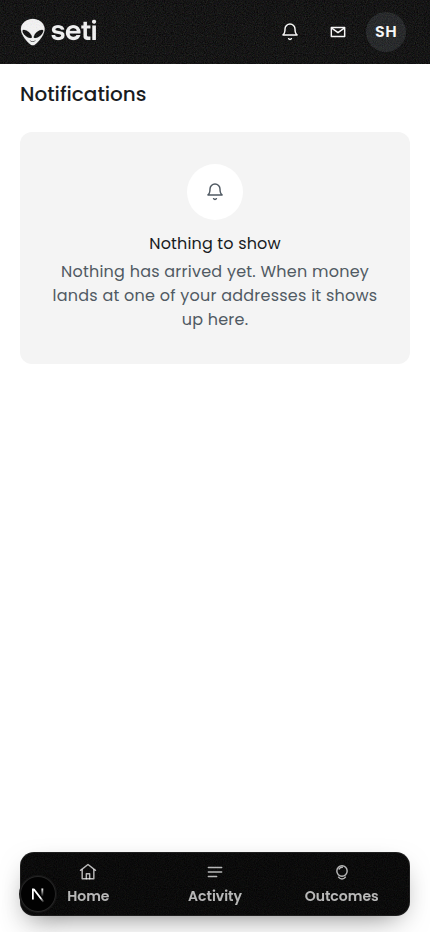
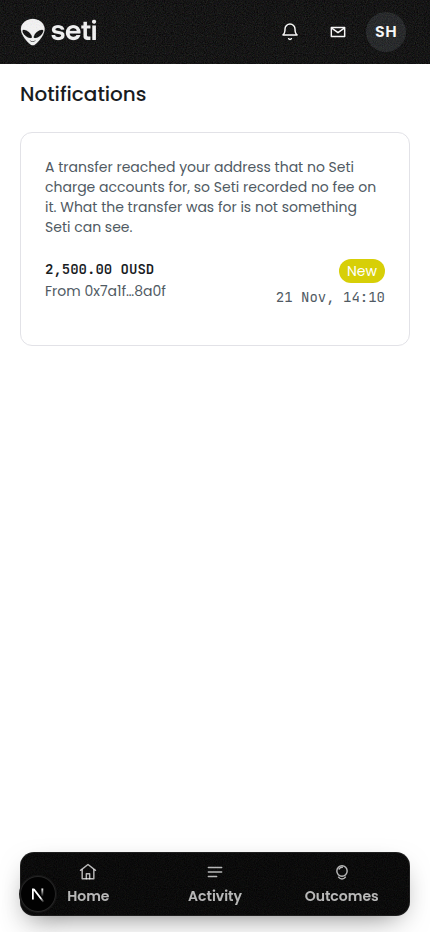
fix(notifications): read the row the server actually sends
The client type described a view the server does not send. `ArrivalView` on the wire is
txHash, recipient, from, asset, amount, blockNumber, seenAt — no `id`, no `createdAt`, no
`matched`. Against a real arrival the list would have keyed on undefined, printed "Invalid
Date", and labelled every row with a `matched` flag that does not exist.

It went unnoticed because the dev account has no arrivals, so every capture was the empty
state, which renders from the empty branch and touches no row fields.

- the four state branches are unchanged; the row now reads the fields that arrive
- the sender replaces the invented `matched` flag, because an arrival's only handle on "what
  was this for" is who sent it
- amounts are formatted rather than printed raw: `2500.000000` reads as `2,500.00`, and real
  dust keeps its digits
- the server's own sentence about what an arrival is heads the list, instead of a sixth
  phrasing invented on the client
- a browser with no seen instant has seen nothing, so its rows are New rather than old

Changed region(s): [[0.0907, 0.1556, 0.907, 0.3734]]

diff --git a/web/components/notifications/ArrivalRow.tsx b/web/components/notifications/ArrivalRow.tsx
@@ -3,38 +3,72 @@ import type { ArrivalView } from '@/lib/api/arrivals';
 import { NOTIFICATIONS_COPY } from './Notifications.constants';
 
 /**
- * One arrival: an amount in the asset it arrived in, the address that received it, and the
- * instant (#592).
+ * A token amount, as the chain moved it, made readable without rounding the money away.
+ *
+ * The stored amount is six decimal places (`"2500.000000"`), and printing all of them reads
+ * as a machine talking. Two decimals always, and up to six only when the trailing digits are
+ * real: `0.000042 OUSD` keeps its dust, `2,500.00 OUSD` does not carry four zeros it earned
+ * from nowhere. The integer part is grouped, because that is what makes a figure scannable.
+ */
+export function formatAmount(amount: string): string {
+  const [whole, fraction = ''] = amount.split('.');
+  const trimmed = fraction.replace(/0+$/, '');
+  const decimals = trimmed.length > 2 ? trimmed : trimmed.padEnd(2, '0');
+  const grouped = whole.replace(/\B(?=(\d{3})+(?!\d))/g, ',');
+  return decimals.length > 0 ? `${grouped}.${decimals}` : grouped;
+}
+
+/** `0x1234…abcd`, which is how a person recognises an address without reading 42 characters. */
+export function shortAddress(address: string): string {
+  return address.length > 12 ? `${address.slice(0, 6)}…${address.slice(-4)}` : address;
+}
+
+/**
+ * One arrival: an amount in the asset it arrived in, who sent it, and when it was seen (#592).
  *
  * THE FIGURE IS NOT CONVERTED, AND THAT IS DELIBERATE. `ArrivalView` carries no fiat: the
- * server's view is the token amount. Rendering KES here would mean the browser inventing a
- * rate, which is the one thing the money surfaces in this app never do. The asset is printed
- * beside the number so the figure is unambiguous — `12.50 OUSD` claims nothing it cannot back.
+ * server's view is the token amount and the block it moved in. Rendering KES here would mean
+ * the browser inventing a rate, which is the one thing the money surfaces in this app never do.
+ * The asset is printed beside the number so the figure is unambiguous — `12.50 OUSD` claims
+ * nothing it cannot back.
+ *
+ * THE SENDER IS THE POINT OF THE ROW. An arrival is money with no charge behind it, so the
+ * only handle a customer has on "what was this for" is who sent it. It is shortened, because a
+ * full address is a wall of characters on a phone, and the full one is one tap away on the
+ * chain through `txHash`.
  */
 export function ArrivalRow({ arrival, isNew }: { arrival: ArrivalView; isNew: boolean }) {
-  const when = new Date(arrival.createdAt);
+  const when = new Date(arrival.seenAt);
 
   return (
     <li className="flex items-start justify-between gap-3 py-3.5">
       <div className="min-w-0">
         <Text variant="tab" as="p" tabular>
-          {arrival.amount} <span className="text-ink-muted">{arrival.asset}</span>
+          {formatAmount(arrival.amount)} <span className="text-ink-muted">{arrival.asset.toUpperCase()}</span>
         </Text>
         <Text variant="micro" as="p" color="secondary" className="mt-0.5 truncate">
-          {arrival.matched ? NOTIFICATIONS_COPY.matched : NOTIFICATIONS_COPY.unmatched}
-          {' · '}
-          {arrival.recipient}
+          {NOTIFICATIONS_COPY.fromSender(shortAddress(arrival.from))}
         </Text>
       </div>
 
       <div className="flex shrink-0 flex-col items-end gap-1">
         {isNew ? (
-          <Text variant="micro" as="span" color="inverse" className="rounded-full bg-accent-lime px-2 py-0.5 text-canvas-dark">
+          <Text
+            variant="micro"
+            as="span"
+            color="inverse"
+            className="rounded-full bg-accent-lime px-2 py-0.5 text-canvas-dark"
+          >
             {NOTIFICATIONS_COPY.newMark}
           </Text>
         ) : null}
         <Text variant="micro" as="span" color="secondary" tabular>
-          {when.toLocaleString('en-KE', { day: 'numeric', month: 'short', hour: '2-digit', minute: '2-digit' })}
+          {when.toLocaleString('en-KE', {
+            day: 'numeric',
+            month: 'short',
+            hour: '2-digit',
+            minute: '2-digit',
+          })}
         </Text>
       </div>
     </li>

diff --git a/web/lib/api/arrivals.ts b/web/lib/api/arrivals.ts
@@ -5,31 +5,46 @@ import { get } from './client';
  *
  * The endpoint is `GET /arrivals` and it is behind the session: an arrival belongs to the
  * account whose address received it, and the addresses are resolved from the session rather
- * than from the query. The row shape here is the server's own view (`toArrivalView`), which is
- * what the notifications list prints, so a row cannot say one thing on the list and another in
- * the place it came from.
+ * than from the query. The row shape below is `ArrivalView` in
+ * `backend/src/services/arrival-store.ts`, field for field — and `check:page-header` compares
+ * the two, because a client type that drifts from the server's view renders `undefined` where
+ * a figure should be, which looks like a bug in the money rather than a bug in the types.
+ *
+ * There is no `status`, no `matched` and no `chargeId` on a row, and the absence is the
+ * feature: an arrival is a FACT about money plus an ABSENCE of attribution. A client cannot
+ * render a state this row does not have.
  */
 
 export interface ArrivalView {
-  id: string;
-  /** The amount in the asset it arrived in, as a decimal string. */
-  amount: string;
-  asset: string;
-  /** The address that received it, shortened server-side for display. */
+  /** The transaction, for a customer who wants the chain. */
+  txHash: string;
+  /** The address that received the money. */
   recipient: string;
-  /** The transaction hash, for a reader who wants the chain. */
-  txHash: string | null;
-  /** ISO instant the arrival was indexed. */
-  createdAt: string;
-  /** True when the money has been matched to a charge or a person. */
-  matched: boolean;
+  /** Who sent it, as the chain recorded. The one handle on asking them what it was for. */
+  from: string;
+  /** The Seti ledger label of the token that moved (`ousd`). */
+  asset: string;
+  /** Decimal token units, exactly as the chain moved them. */
+  amount: string;
+  /** The block, when the log carried one. Null means unknown, never zero. */
+  blockNumber: string | null;
+  /** When the indexer first recorded this pass. */
+  seenAt: string;
+}
+
+/** Totals per asset, as the server adds them up. `amount` is decimal token units. */
+export interface ArrivalSummary {
+  asset: string;
+  count: number;
+  amount: string;
 }
 
 export interface ArrivalsPage {
   arrivals: ArrivalView[];
   hasMore: boolean;
-  summary: { count: number; total: string; asset: string }[];
-  copy: { title: string; body: string };
+  summary: ArrivalSummary[];
+  /** The product's own words for what an arrival is, so a surface does not invent a fifth. */
+  copy: { label: string; headline: string; detail: string };
 }
 
 export function fetchArrivals(limit = 20): Promise<ArrivalsPage> {

diff --git a/web/components/notifications/NotificationsScreen.tsx b/web/components/notifications/NotificationsScreen.tsx
@@ -65,12 +65,19 @@ export function NotificationsScreen() {
 
       {state.kind === 'ready' ? (
         <Card padding="sm">
+          {/* The server's own sentence about what an arrival is, because a surface inventing
+              a fifth phrasing for the same fact is how two screens start disagreeing. */}
+          <Text variant="micro" as="p" color="secondary" className="pb-2">
+            {state.page.copy.detail}
+          </Text>
           <ul className="divide-y divide-hairline">
             {state.page.arrivals.map((arrival) => (
               <ArrivalRow
-                key={arrival.id}
+                key={arrival.txHash}
                 arrival={arrival}
-                isNew={seenAt !== null && arrival.createdAt > seenAt}
+                // A browser with no stored instant has seen nothing, so everything is new. That is
+                // the first visit, and telling someone their money is old would be wrong.
+                isNew={seenAt === null || arrival.seenAt > seenAt}
               />
             ))}
           </ul>

diff --git a/web/components/notifications/Notifications.constants.ts b/web/components/notifications/Notifications.constants.ts
@@ -24,8 +24,8 @@ export const NOTIFICATIONS_COPY = {
   failed: 'Your arrivals could not be read just now. Nothing is lost; the list reloads.',
   retry: 'Try again',
   newMark: 'New',
-  matched: 'Matched to a charge',
-  unmatched: 'No charge behind it',
+  /** The row's second line. The sender is the only handle a customer has on an arrival. */
+  fromSender: (sender: string) => `From ${sender}`,
 } as const;
 
 /** How many arrivals the list asks for. One page, no infinite scroll in v1. */
